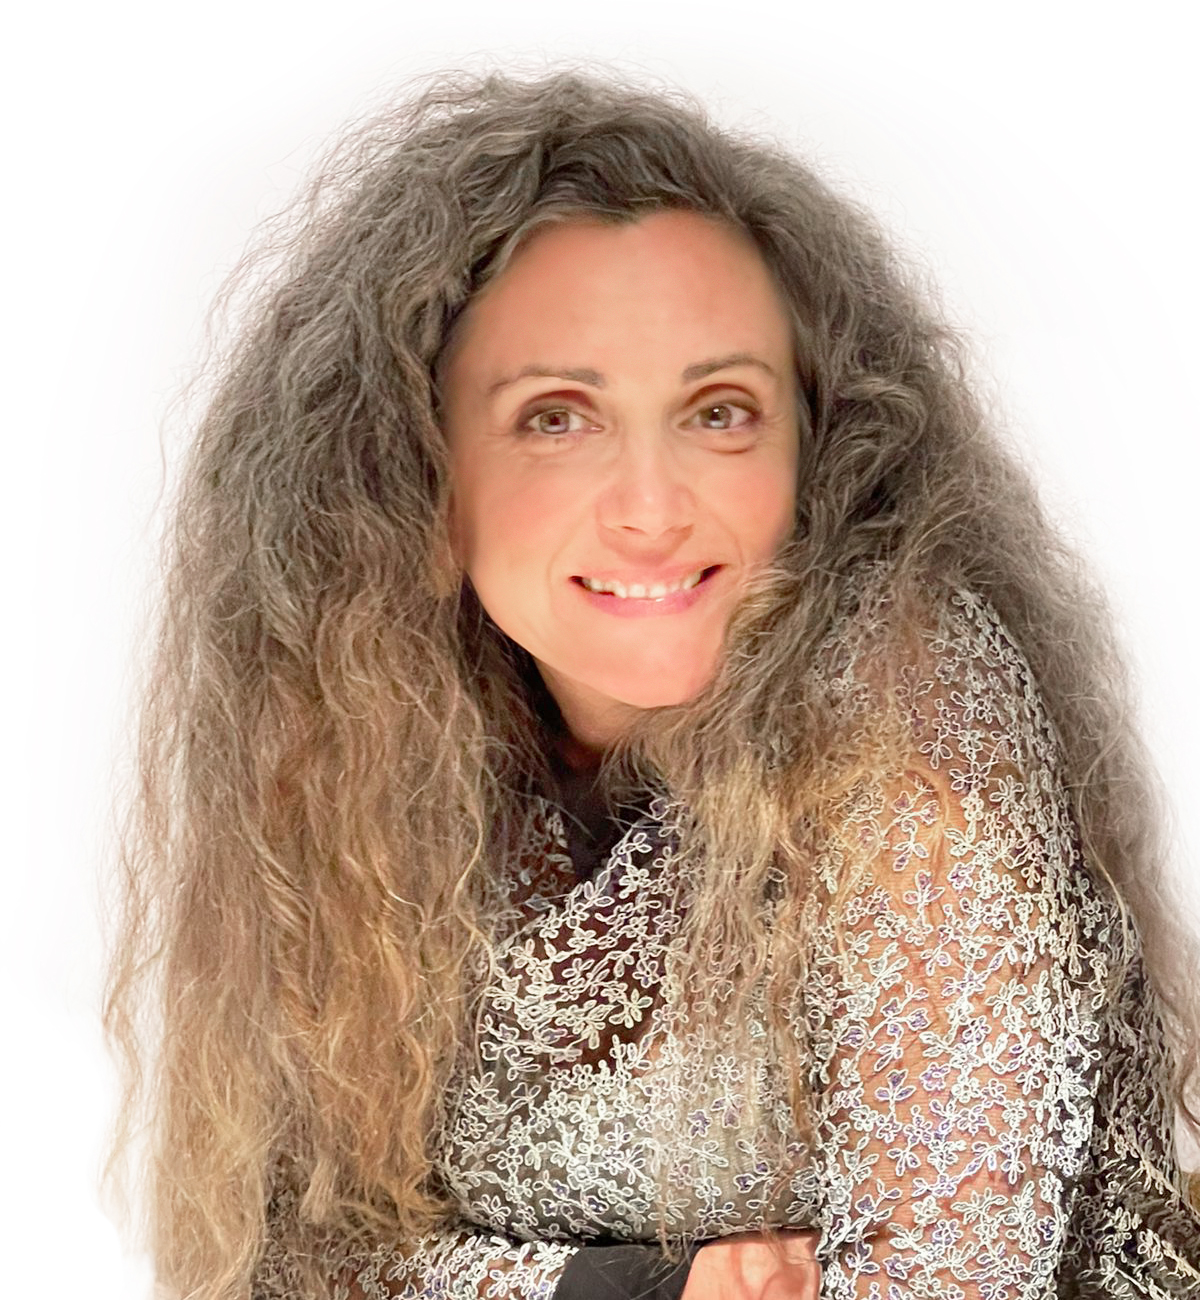
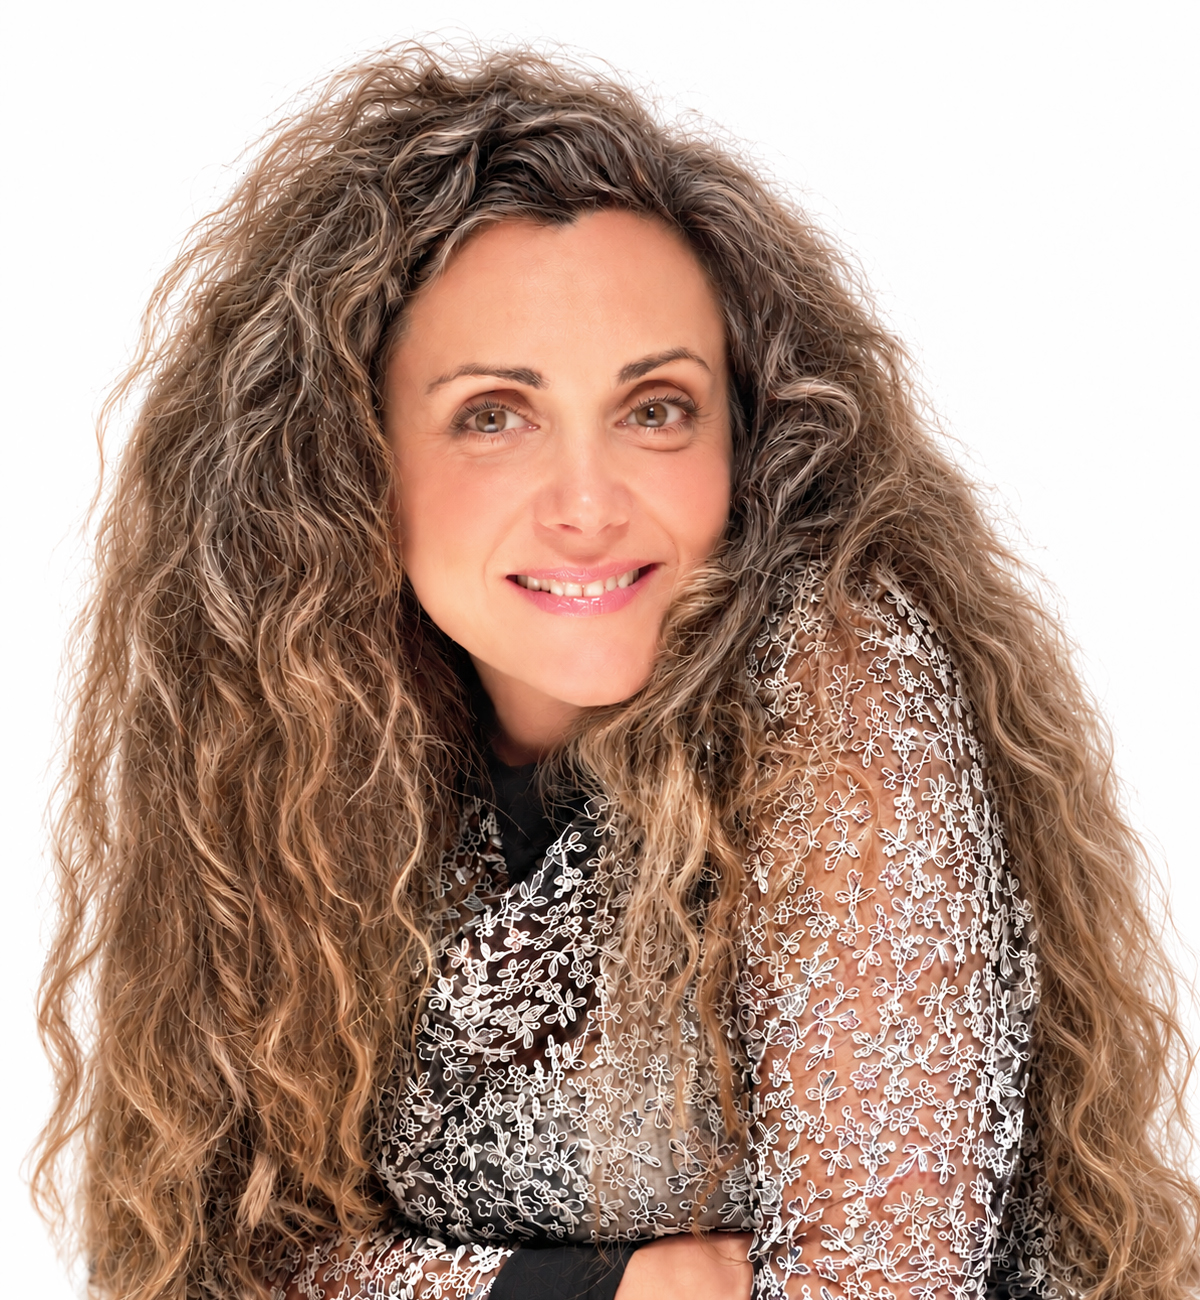
add unbound project and adjust bio image

diff --git a/src/routes/ArtRoutes.js b/src/routes/ArtRoutes.js
@@ -7,26 +7,30 @@ function ArtRoutes({ projects, icon }) {
   return (
     <>
       <Routes>
-       <Route path="/spirit-us">
+        <Route path="/Unbound">
           <Route index element={<Painting can={projects[0]} />} />
           <Route path=":id" element={<Painting can={projects[0].canvas} />} />
         </Route>
-        <Route path="/vegetal-gold-series">
+       <Route path="/spirit-us">
           <Route index element={<Painting can={projects[1]} />} />
           <Route path=":id" element={<Painting can={projects[1].canvas} />} />
         </Route>
-        <Route path="/mineral-sea">
+        <Route path="/vegetal-gold-series">
           <Route index element={<Painting can={projects[2]} />} />
           <Route path=":id" element={<Painting can={projects[2].canvas} />} />
         </Route>
-        <Route index element={<Art allProjects={projects} icon={icon} />} />
-        <Route path="/vegetal-trees">
+        <Route path="/mineral-sea">
           <Route index element={<Painting can={projects[3]} />} />
           <Route path=":id" element={<Painting can={projects[3].canvas} />} />
         </Route>
-        <Route path="/mineral">
+        <Route index element={<Art allProjects={projects} icon={icon} />} />
+        <Route path="/vegetal-trees">
           <Route index element={<Painting can={projects[4]} />} />
           <Route path=":id" element={<Painting can={projects[4].canvas} />} />
+        </Route>
+        <Route path="/mineral">
+          <Route index element={<Painting can={projects[5]} />} />
+          <Route path=":id" element={<Painting can={projects[5].canvas} />} />
         </Route>
       </Routes>
     </>

diff --git a/src/datas/projectsdata.js b/src/datas/projectsdata.js
@@ -261,7 +261,43 @@ export const projectsDesignData = [
 ];
 
 export const projectsArtData = [
-     {
+         {
+    _id: 1119,
+    title_italic: "Unbound",
+    title: "",
+    date: "Beirut - 2025/2026",
+    description:"Beyond boundaries, threads find their own language. Unbound explores the space between structure and freedom, where material unfolds into new forms of connection and possibility.",
+    canvas: [
+         {
+        id: "canvas9_1",
+        title: "My Heart",
+        dimension: "105 x 175",
+        media: "Mixed media on raw linen",
+        date: "2026",
+        path: "/art/unbound/1",
+        image_square:
+          "/images/projects/art/unbound/my-heart.jpg",
+        images: [
+          "/images/projects/art/unbound/my-heart.jpg",
+          "/images/projects/art/unbound/my-heart-insit.jpg",
+        ],
+      },{
+        id: "canvas9_2",
+        title: "Owning the Aether",
+        dimension: "110 x 120",
+        media: "Weave on bamboo support",
+        date: "2026",
+        path: "/art/unbound/2",
+        image_square:
+          "/images/projects/art/unbound/owning-the-aether.jpg",
+        images: [
+          "/images/projects/art/unbound/owning-the-aether.jpg",
+          "/images/projects/art/unbound/owning-the-aether-insit.jpg",
+        ],
+      },
+    ],
+  },
+  {
     _id: 1118,
     title_italic: "SpiritUs",
     title: "",
